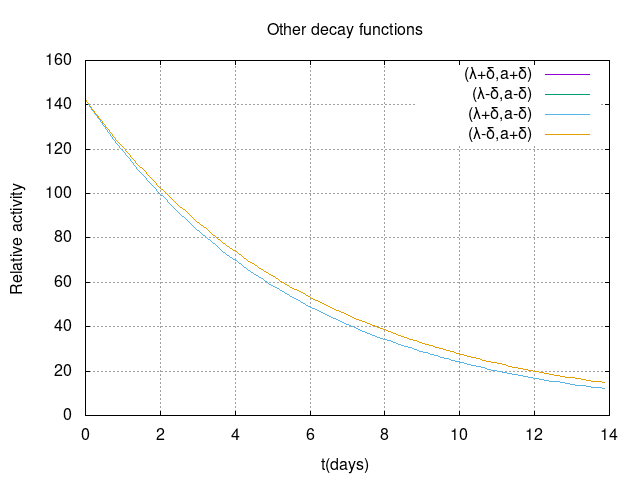
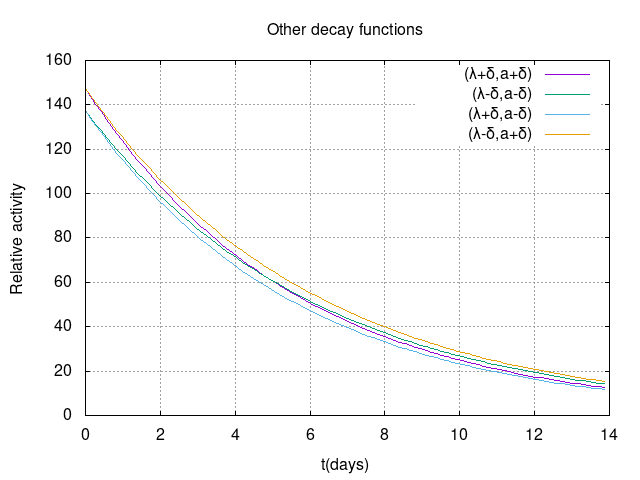
fixed error in a and initialized Spline homework

diff --git a/Homework/matlib/matrix.cs b/Homework/matlib/matrix.cs
@@ -216,6 +216,17 @@ public static matrix random(int n, int m, Random rnd){
 	return mat;
 }
 
+public static matrix symrandom(int n, Random rnd){
+	var B = new matrix(n,n);
+	for(int i=0;i<n;i++){
+		for(int j=0;j<n;j++){
+			var val=rnd.NextDouble();
+			B[i,j]=val;
+			B[j,i]=val;
+		}
+	}
+	return B;
+}
 public static void scale(matrix M,double x){
 	for(int j=0;j<M.size2;j++)
 	for(int i=0;i<M.size1;i++)
@@ -248,7 +259,7 @@ public bool approx(matrix B,double acc=1e-6, double eps=1e-6){
 				return false;
 	return true;
 	}
-private static class QR{
+public static class QR{
 	public static (matrix,matrix) decomp(matrix A){
 		matrix Q=A.copy();
 		matrix R=new matrix(A.size2,A.size2);
@@ -294,6 +305,5 @@ private static class QR{
 	   	}
 	   return Ainv;
 	}
-	}//QR
-
+	}
 }//matrix

diff --git a/Homework/LeastSquares/main.cs b/Homework/LeastSquares/main.cs
@@ -65,7 +65,7 @@ class Program{
 		var S = fit.Item2;
 		S.print("The covariance matrix:\n");
 		var lambdaErr = Sqrt(S[1,1]);
-		var aerr = Sqrt(S[0,0])/a;
+		var aerr = Sqrt(S[0,0])*a;
 		var T_12Err = lambdaErr * Log(2)/(Pow(lambda,2));
 		WriteLine($"With use of covariance matrix and error propagation, the error on T_1/2 is found as {T_12Err}");
 		WriteLine($"\nThis gives T_1/2 = {T_12} +- {T_12Err} days which is a bit outside the modern value {aerr}");
